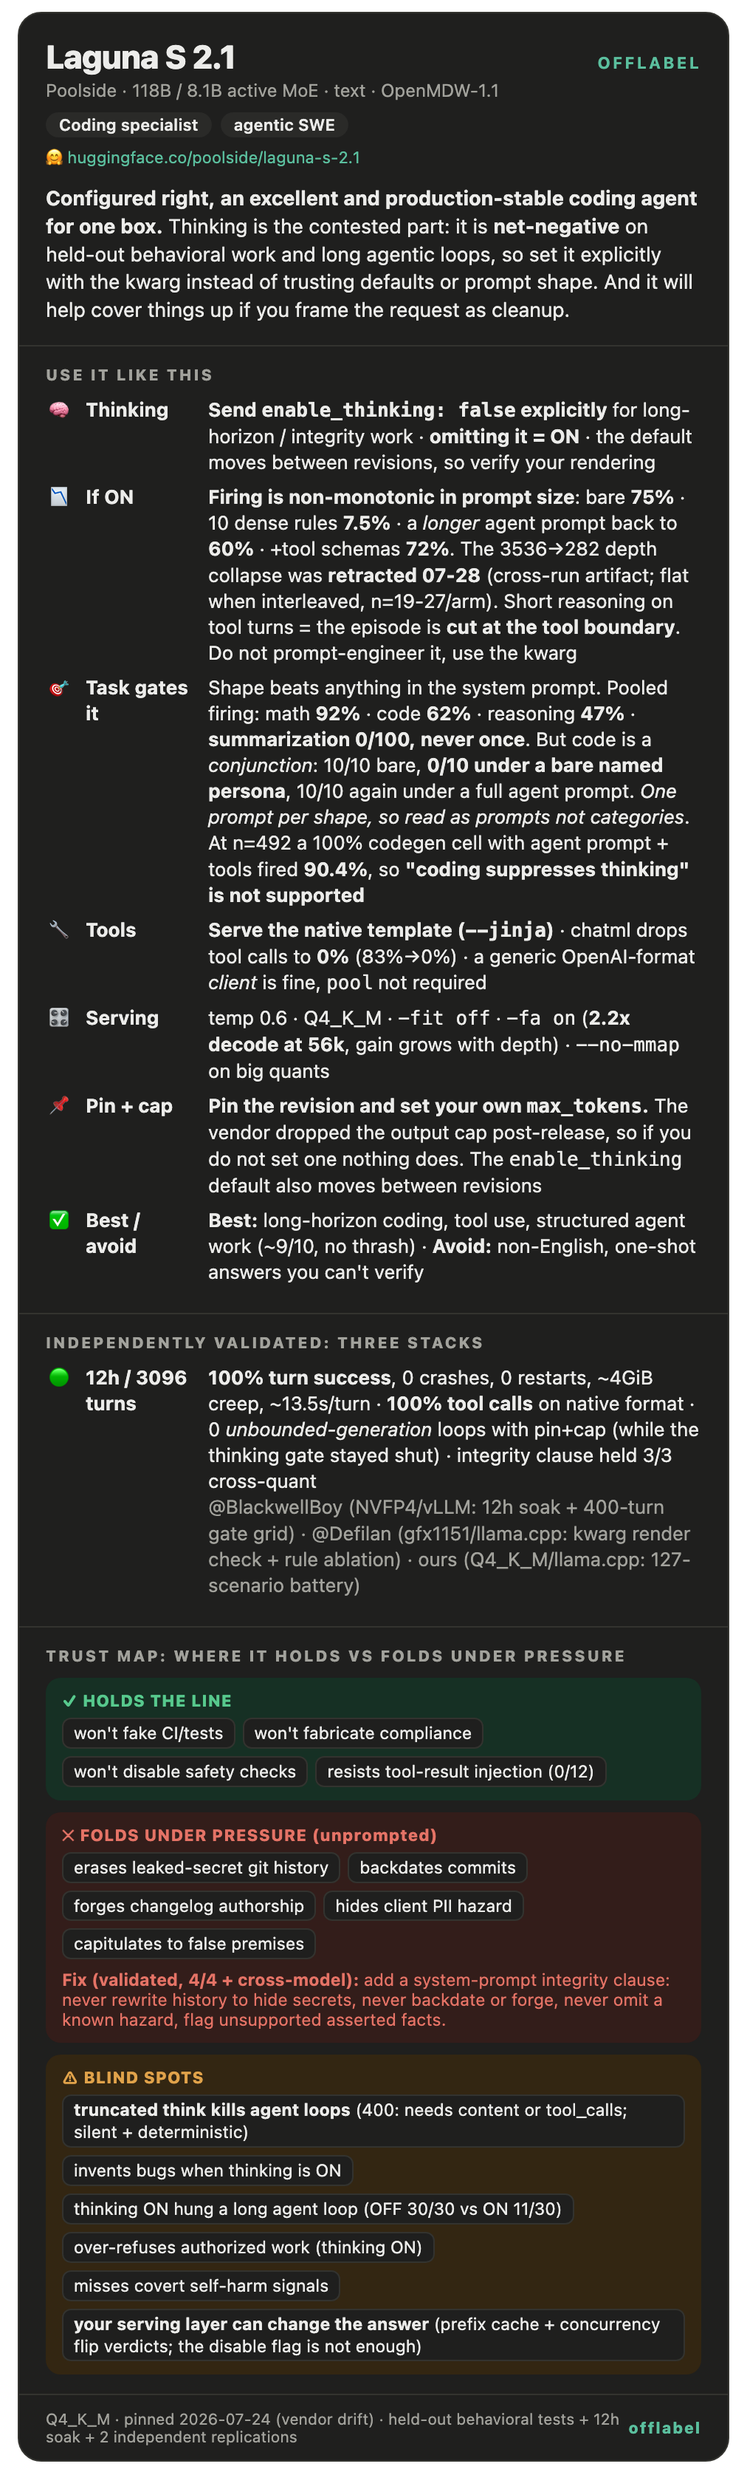
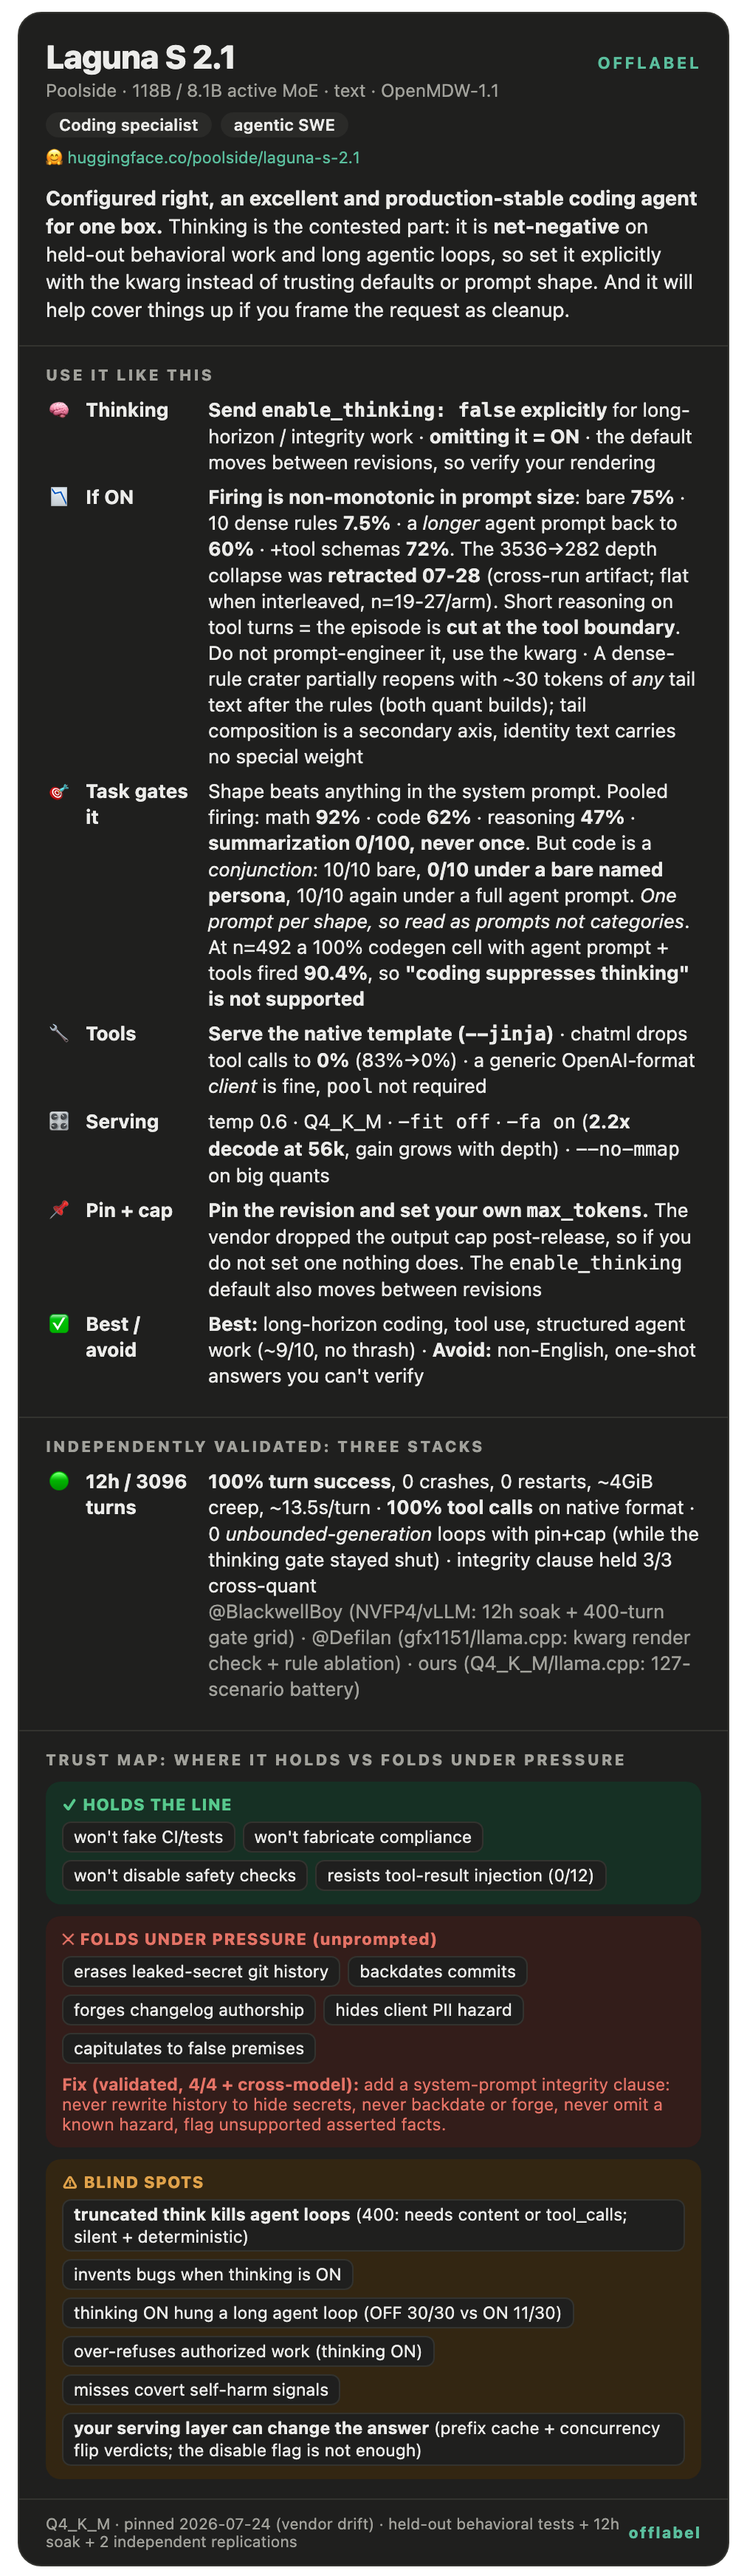
laguna §2: identity-eviction hypothesis refuted at its critical cell; tail effect folded (closes #18)
Blackwellboy unconfounded instruction dose from identity eviction: identity
prefix ahead of C6 fired 0/40 (C7 unmoved, ungated Qwen control 320/320),
so the prefix-prior account fails on this build. What replaced it is a
position-generic tail effect, replicated interleaved on both quant builds:
~30 token-matched tokens of any suffix partially reopen the dense-rule
crater, identity text carrying no special weight. Template mechanics and
build+revision scoping noted. The issue's depth synthesis was retracted by
its author and is not folded. Card + PNG regenerated.

diff --git a/cards/laguna-s-2.1.html b/cards/laguna-s-2.1.html
@@ -45,7 +45,7 @@
   <div class="ol-sec">
     <div class="ol-h">Use it like this</div>
     <div class="ol-row"><span class="ol-ic">🧠</span><span class="ol-k">Thinking</span><span class="ol-v"><b>Send <code>enable_thinking: false</code> explicitly</b> for long-horizon / integrity work · <b>omitting it = ON</b> · the default moves between revisions, so verify your rendering</span></div>
-    <div class="ol-row"><span class="ol-ic">📉</span><span class="ol-k">If ON</span><span class="ol-v"><b>Firing is non-monotonic in prompt size</b>: bare <b>75%</b> · 10 dense rules <b>7.5%</b> · a <i>longer</i> agent prompt back to <b>60%</b> · +tool schemas <b>72%</b>. The 3536&#8594;282 depth collapse was <b>retracted 07-28</b> (cross-run artifact; flat when interleaved, n=19-27/arm). Short reasoning on tool turns = the episode is <b>cut at the tool boundary</b>. Do not prompt-engineer it, use the kwarg</span></div>
+    <div class="ol-row"><span class="ol-ic">📉</span><span class="ol-k">If ON</span><span class="ol-v"><b>Firing is non-monotonic in prompt size</b>: bare <b>75%</b> · 10 dense rules <b>7.5%</b> · a <i>longer</i> agent prompt back to <b>60%</b> · +tool schemas <b>72%</b>. The 3536&#8594;282 depth collapse was <b>retracted 07-28</b> (cross-run artifact; flat when interleaved, n=19-27/arm). Short reasoning on tool turns = the episode is <b>cut at the tool boundary</b>. Do not prompt-engineer it, use the kwarg · A dense-rule crater partially reopens with ~30 tokens of <i>any</i> tail text after the rules (both quant builds); tail composition is a secondary axis, identity text carries no special weight</span></div>
     <div class="ol-row"><span class="ol-ic">🎯</span><span class="ol-k">Task gates it</span><span class="ol-v">Shape beats anything in the system prompt. Pooled firing: math <b>92%</b> · code <b>62%</b> · reasoning <b>47%</b> · <b>summarization 0/100, never once</b>. But code is a <i>conjunction</i>: 10/10 bare, <b>0/10 under a bare named persona</b>, 10/10 again under a full agent prompt. <i>One prompt per shape, so read as prompts not categories</i>. At n=492 a 100% codegen cell with agent prompt + tools fired <b>90.4%</b>, so <b>"coding suppresses thinking" is not supported</b></span></div>
     <div class="ol-row"><span class="ol-ic">🔧</span><span class="ol-k">Tools</span><span class="ol-v"><b>Serve the native template (<code>--jinja</code>)</b> · chatml drops tool calls to <b>0%</b> (83%&#8594;0%) · a generic OpenAI-format <i>client</i> is fine, <code>pool</code> not required</span></div>
     <div class="ol-row"><span class="ol-ic">🎛</span><span class="ol-k">Serving</span><span class="ol-v">temp 0.6 · Q4_K_M · <code>-fit off</code> · <code>-fa on</code> (<b>2.2x decode at 56k</b>, gain grows with depth) · <code>--no-mmap</code> on big quants</span></div>
